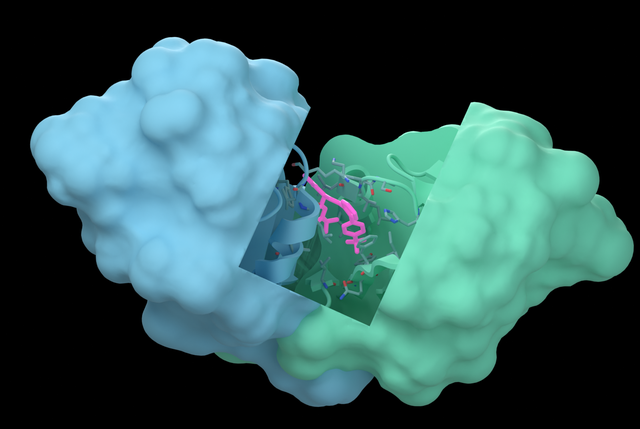
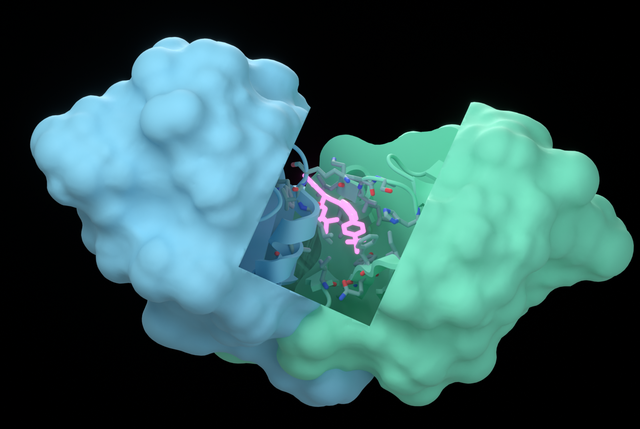
Refine reference preset glow and glass materials

Changed region(s): [[0.4375, 0.3636, 0.625, 0.6061], [0.5312, 0.6364, 0.5625, 0.697], [0.4375, 0.3636, 0.4688, 0.3939]]

diff --git a/blender_render/blender_custom_render.py b/blender_render/blender_custom_render.py
@@ -1270,6 +1270,70 @@ def _set_world(scene: bpy.types.Scene, world_cfg: dict[str, Any]) -> None:
         nt.links.new(mix.outputs[0], out.inputs["Surface"])
 
 
+def _configure_glow_compositor(scene: bpy.types.Scene, style_doc: dict[str, Any]) -> None:
+    """Add one optional fog-glow pass for materials that explicitly request it."""
+    glows = [material.get("glow") for material in style_doc.get("materials", {}).values()
+             if isinstance(material, dict) and isinstance(material.get("glow"), dict)]
+    if not glows:
+        return
+    strength = max(float(item.get("strength", 0.0)) for item in glows)
+    if strength <= 0:
+        return
+    threshold = min(float(item.get("threshold", 1.0)) for item in glows)
+    size = max(2, min(9, max(int(item.get("size", 6)) for item in glows)))
+    tree = getattr(scene, "compositing_node_group", None)
+    if tree is None:
+        try:
+            tree = bpy.data.node_groups.new("Blender Render compositor", "CompositorNodeTree")
+            scene.compositing_node_group = tree
+        except Exception:
+            scene.use_nodes = True
+            tree = scene.node_tree
+    tree.nodes.clear()
+    layers = tree.nodes.new("CompositorNodeRLayers")
+    glare = tree.nodes.new("CompositorNodeGlare")
+    if hasattr(glare, "glare_type"):
+        glare.glare_type = "FOG_GLOW"
+    if hasattr(glare, "quality"):
+        glare.quality = "HIGH"
+    if glare.inputs.get("Quality") is not None:
+        try:
+            glare.inputs["Quality"].default_value = "HIGH"
+        except (TypeError, ValueError):
+            pass
+    if glare.inputs.get("Type") is not None:
+        try:
+            glare.inputs["Type"].default_value = "Fog Glow"
+        except (TypeError, ValueError):
+            pass
+    if glare.inputs.get("Threshold") is not None:
+        glare.inputs["Threshold"].default_value = threshold
+    elif hasattr(glare, "threshold"):
+        glare.threshold = threshold
+    if glare.inputs.get("Strength") is not None:
+        glare.inputs["Strength"].default_value = strength
+    if hasattr(glare, "size"):
+        try:
+            glare.size = size
+        except (TypeError, ValueError):
+            # Blender 5 exposes this legacy property as an enum; the node's
+            # default remains a valid small fog-glow when the enum is absent.
+            pass
+    if glare.inputs.get("Size") is not None:
+        try:
+            glare.inputs["Size"].default_value = size
+        except (TypeError, ValueError):
+            pass
+    tree.links.new(layers.outputs["Image"], glare.inputs["Image"])
+    try:
+        output = tree.nodes.new("CompositorNodeComposite")
+    except Exception:
+        if not any(socket.name == "Image" and socket.in_out == "OUTPUT" for socket in tree.interface.items_tree):
+            tree.interface.new_socket(name="Image", in_out="OUTPUT", socket_type="NodeSocketColor")
+        output = tree.nodes.new("NodeGroupOutput")
+    tree.links.new(glare.outputs["Image"], output.inputs[0])
+
+
 def _add_lights(
     scene: bpy.types.Scene,
     lights_cfg: list[dict[str, Any]],
@@ -3776,6 +3840,7 @@ def _render(args: argparse.Namespace) -> None:
 
     _configure_renderer(scene, style_doc)
     _set_world(scene, style_doc["world"])
+    _configure_glow_compositor(scene, style_doc)
     camera = _ensure_camera(scene, style_doc, view_doc)
     pymol_up_axis = None
     try:

diff --git a/tests/test_reference_presets.py b/tests/test_reference_presets.py
@@ -121,3 +121,16 @@ def test_cutaway_pocket_residues_are_complete_and_element_colored():
     assert style['materials'][pocket['material']]['color_attribute'] == 'Color'
     palette = style['geometry']['element_palette']
     assert len({palette[element] for element in ('C', 'N', 'O', 'S')}) == 4
+
+
+def test_reference_materials_keep_glow_and_glass_controls_explicit():
+    from blender_render.presets import preset_path, required_capabilities
+    cutaway = json.loads(preset_path('cyan_mint_cutaway').read_text())
+    ligand = cutaway['materials']['ligand']
+    assert ligand['emission_strength'] == 1.5
+    assert ligand['glow']['threshold'] < 1.0
+    assert 'material.fog_glow' in required_capabilities(cutaway)
+    glass = json.loads(preset_path('ivory_lime_frosted').read_text())
+    assert glass['materials']['shell']['transmission'] >= 0.7
+    assert glass['materials']['shell']['frosted']['grid_width'] <= 0.01
+    assert glass['materials']['pink']['transmission'] >= 0.7

diff --git a/blender_render/core.py b/blender_render/core.py
@@ -308,6 +308,9 @@ def validate_style_document(style_doc: dict[str, Any]) -> dict[str, Any]:
             errors.append(f"materials.{name}.color_attribute ElementColor requires geometry.element_palette")
         if material.get("color_attribute") and gradient:
             errors.append(f"materials.{name}: choose color_attribute or color_gradient, not both")
+        glow = material.get("glow")
+        if isinstance(glow, dict) and float(glow.get("strength", 0)) > 0 and "emission_color" not in material:
+            errors.append(f"materials.{name}.glow requires emission_color")
     for path, direction in gradients:
         if isinstance(direction, list) and direction and all(isinstance(v, (int, float)) for v in direction) and not any(direction):
             errors.append(f"{path} must be nonzero")

diff --git a/blender_render/presets.py b/blender_render/presets.py
@@ -59,7 +59,7 @@ def required_capabilities(style: dict) -> list[str]:
     if style.get("geometry", {}).get("edge_rounding", {}).get("radius_angstrom", 0) > 0:
         required.add("geometry.edge_rounding")
     for material in style["materials"].values():
-        for field, capability in (("frosted", "material.frosted_grid"), ("color_gradient", "material.color_gradient"), ("color_attribute", "material.attribute_color")):
+        for field, capability in (("frosted", "material.frosted_grid"), ("color_gradient", "material.color_gradient"), ("color_attribute", "material.attribute_color"), ("glow", "material.fog_glow")):
             if field in material:
                 required.add(capability)
     if "element_palette" in style.get("geometry", {}):

diff --git a/docs/plans/blender-render-progress.md b/docs/plans/blender-render-progress.md
@@ -191,3 +191,21 @@ No unresolved new test failures remain. There is no fresh Slurm allocation, Moda
 
 
 Final appearance comparison: `.venv/bin/python "$TASK/compare_legacy.py"` rendered `preset_5_black_interface` using a temporary copy of the starting commit's renderer, without checking out or changing the repository. The first attempt lacked the Python package directory layout and failed to import `blender_render`; correcting the temporary layout allowed the comparison to pass. Current versus starting image differs in one channel value by 1/255 (mean absolute difference **0.000000361690** on the 0–255 scale). Its dark appearance is inherited. `legacy-baseline-check.json` records the result. A separate attempt to compare supplied PSE file hashes could not proceed because the initial exported payloads did not store source-file hashes; that retrospective hash check remains unverified. Conversion only had read access to those files, and no save/overwrite operation was performed on them.
+
+## Follow-up: glow, thicker pocket sticks and glass refinement (2026-09-07)
+
+The requested visual refinement stays within the existing shared renderer. The cutaway ligand now declares an emission-backed fog-glow pass in the shared schema and compositor, while keeping its pink material below clipping. The pocket sidechain sticks remain element-colored and use radius `0.3` so the complete nearby residues read through the opening. The ivory/lime shell and cyan nucleic acids use higher transmission, lower frosted opacity and a finer, very light grid; the grid and glass controls remain explicit preset values rather than hidden renderer defaults.
+
+The two affected presets were rendered again through the local Blender 5.0.1 / Molecular Nodes 4.5.10 worker with the task-local CCD path. The verified outputs are `02_cyan_mint_cutaway.png` and `06_ivory_lime_frosted.png` in the task's temporary final directory; their checked-in thumbnails and gallery SHA-256 records were regenerated from those outputs. The actual renders preserve the cutaway interior and show colored sidechains, a controlled pink ligand halo, translucent cyan DNA and the pale frosted shell.
+
+| Exact command / check | Result |
+|---|---|
+| `BLENDER_RENDER_HOME=/private/tmp/blender-reference-presets/config BLENDER_RENDER_SITE=/Users/mb/Documents/blender_bridge-release/.validation/config/runtime/site .venv/bin/python -m pytest -q -p no:cacheprovider tests/test_reference_presets.py tests/test_spec.py tests/test_style_schema.py` | **81 passed, 2 warnings**, 0.88s. |
[1 lines of base64/hex data omitted]
+| `.venv/bin/python /private/tmp/blender-reference-presets/package_gallery.py` | **Passed**. Regenerated the two thumbnails, `examples/presets/gallery.json`, `examples/presets/cutaway_checks.json` and the isolated delivery bundle. |
+| `.venv/bin/python /private/tmp/blender-reference-presets/build_wheel.py && .venv/bin/python -m build --wheel --outdir /private/tmp/blender-reference-presets/wheels /private/tmp/blender-reference-presets/wheel-source` | **Passed**. Fresh isolated wheel `pymol_plugin_bridge-0.2.0b1-py3-none-any.whl` built without changing the development environment. |
+| `PYTHONPATH=/private/tmp/blender-reference-presets/installed-env/lib/python3.11/site-packages /Users/mb/Documents/blender_bridge-release/.venv/bin/python -m pytest -q -p no:cacheprovider /private/tmp/blender-reference-presets/wheel-check` from the installed site directory | **83 passed, 2 warnings**, 0.79s. The temporary installed environment itself has no pytest package, so the existing development pytest runner was used with the installed wheel first on `PYTHONPATH`; this is an installed-wheel check, not a clean dependency-install test. |
+| `.venv/bin/python -m pytest -q -p no:cacheprovider` | **174 passed, 4 warnings**, 4.50s. Warnings are inherited dependency deprecations; no new test failures. |
+| `git diff --check` | **Passed** before the final commit review. |
+
+No new remote, Slurm, Modal, production-service, credential or deployment checks were performed. The supplied references remain visual targets rather than exact pixel-match claims; the original structure identity for references 1, 5 and 6 remains unresolved. The next bounded task is a final full-suite/build verification of this refinement, then stop for review.

diff --git a/docs/reference-presets.md b/docs/reference-presets.md
@@ -36,7 +36,7 @@ The same installed PyMOL is used throughout. Its `pymol2` API creates isolated i
 
 ## Cutaway geometry
 
-The pocket cut operates on two isolated surface meshes. It never Boolean-cuts the shared interior cartoon, ligand or pocket-residue mesh. Native Molecular Nodes sticks remain sphere-free. Residues with an atom within 5 angstrom of the ligand expand to complete residues, so a distance cutoff cannot amputate a side chain. Their carbon is muted cyan, nitrogen blue, oxygen red and sulfur yellow; the ligand remains pink.
+The pocket cut operates on two isolated surface meshes. It never Boolean-cuts the shared interior cartoon, ligand or pocket-residue mesh. Native Molecular Nodes sticks remain sphere-free. Residues with an atom within 5 angstrom of the ligand expand to complete residues, so a distance cutoff cannot amputate a side chain. Their carbon is muted cyan, nitrogen blue, oxygen red and sulfur yellow; the ligand remains pink with a restrained compositor fog glow. The pocket sticks use a larger radius so the colored side chains remain legible through the opening.
 
 The final cut uses a 12-angstrom base radius with left/right scales 0.85, top 2.0, bottom 1.0 and back 1.2 in the camera frame. Reducing the bottom scale retains the lower shell. The upper opening avoids thin leftover shelves. Cut faces inherit their surface pigment, remain flat-shaded and form closed walls. There are no untrimmed panels laid across the opening. The final real-molecule audit compares the evaluated interior vertices and polygon indices before and after both cuts, checks complete residue selections and stored element colors, and counts boundary/nonmanifold edges.
 
@@ -48,7 +48,7 @@ This is a deliberately configured A/B example. For another complex, edit both su
 - Surface styles: `surface_scale_radius` and `surface_relaxation_steps` expose native surface coarseness/smoothing. Defaults retain Molecular Nodes 4.5.10's previous values.
 - Cartoon styles: `nucleic_base_scale` changes rung thickness without changing its length or the shared Molecular Nodes asset. `color_by_chain=false` preserves explicitly chosen pigments.
 - `geometry.element_palette` stores element colors; `color_attribute=Color` uses native stick color boundaries. `ElementColor` is also available and requires an explicit palette. Existing color-follow/secondary-structure palettes can override `Color`; `ElementColor` retains the element mapping.
-- Materials: `color_gradient` supplies spatial pigment; `frosted` combines noise-driven opacity with a fine grid. Frosted opacity multiplies the material's base alpha. A gradient or attribute replaces solid base pigment; attribute and gradient cannot both be selected.
+- Materials: `color_gradient` supplies spatial pigment; `frosted` combines noise-driven opacity with a very light grid; `glow` adds an explicit emission-backed fog-glow pass. Frosted opacity multiplies the material's base alpha. A gradient or attribute replaces solid base pigment; attribute and gradient cannot both be selected. The ivory/lime reference uses higher transmission on both its shell and cyan nucleic acids to keep the glassy look while retaining the fine grid.
 - World: `gradient_direction` controls the visible background ramp; `ambient_color` and `ambient_strength` separate illumination from that background.
 
 All controls use the existing schema and scene builder. Unsupported keys, zero gradient directions and inverted opacity ranges fail validation. No developer workbench, new deployment path or separate rendering engine is included.
